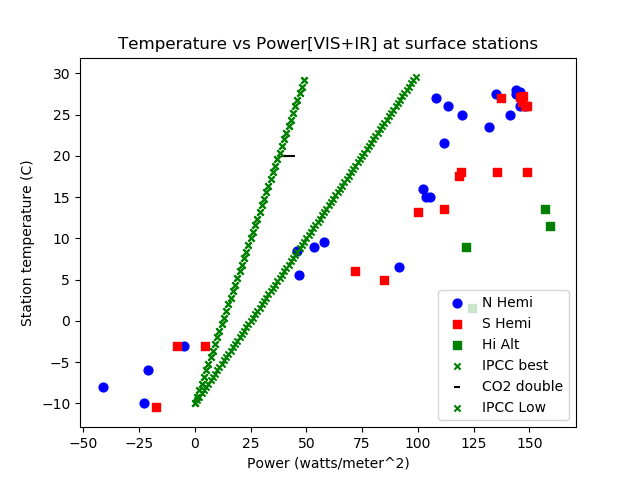
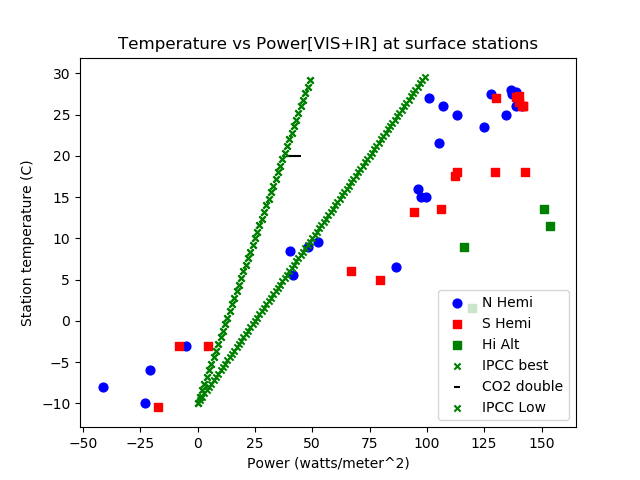
net ir tweak

diff --git a/README.md b/README.md
@@ -22,17 +22,16 @@ Our figure 1 graph, shows GISS station temperature vs. input power. Temperature,
 The plots illustrate the response we actually see on earth, about 40  degrees C over 140 watts/m2 flux increase. In comparison IPCC low-end and best estimates of climate sensitivity rise 40 and 80 degrees for 100 watts/m2 flux increase.  One can argue IPPC low-end response is seen from poles to maybe the point where ice melts.  But then the temperate and tropic zones short out the signal with rain, wind, and clouds.  For perspective a horizontal line of magnitude 3.7 w/m2 is plotted at 20 C and 40 w/m2.  This is the CO2 doubling from which we are all meant to run from, screaming in horror.
 
 
-The following table presents the measured temperature sensitivities with three  definitions of input power:
+The following table presents the measured temperature sensitivities with two  definitions of input power:
 
-1. Current method removes VIS absorbed and adds in IR heating power down. VIS and IR is matched to Trenberth 161 and 333 w/m^2.  This is the dataset in the graph. 
+1. Current method removes VIS absorbed and adds in net IR heating power down. VIS and IR are matched to Trenberth 161 and net -63 w/m^2 up.  This is the dataset in the graph. 
 2. Original calc was All visible power not reflected,i.e. VIS power absorbed was included in total.
-
 
 
   Hemisphere|VIS+IR|VIS+Ab|units|
  --|------|---|-----|
- N|0.269|0.181|K / (w/m^2)|
- S|0.295|0.212|K / (w/m^2)|
+ N|0.211|0.181|K / (w/m^2)|
+ S|0.212|0.196|K / (w/m^2)|
 
 One great advantage of this method is that there is plenty of signal here.  Temperature ranges across 40 degrees K and power ranges over 200 watts per meter squared. Disputes over small adjustments in temperature, common when looking at time series temperature data to tease out the magnitude of CO2 driven warming,  will not have much effect on these measured sensitivities.  Reviewers or critics might come forward with some valid criticisms of how power numbers are calculated, but it will be hard to change the results much as all powers (VIS, IR up and down) go down as absolute value of latitude increases.
 
